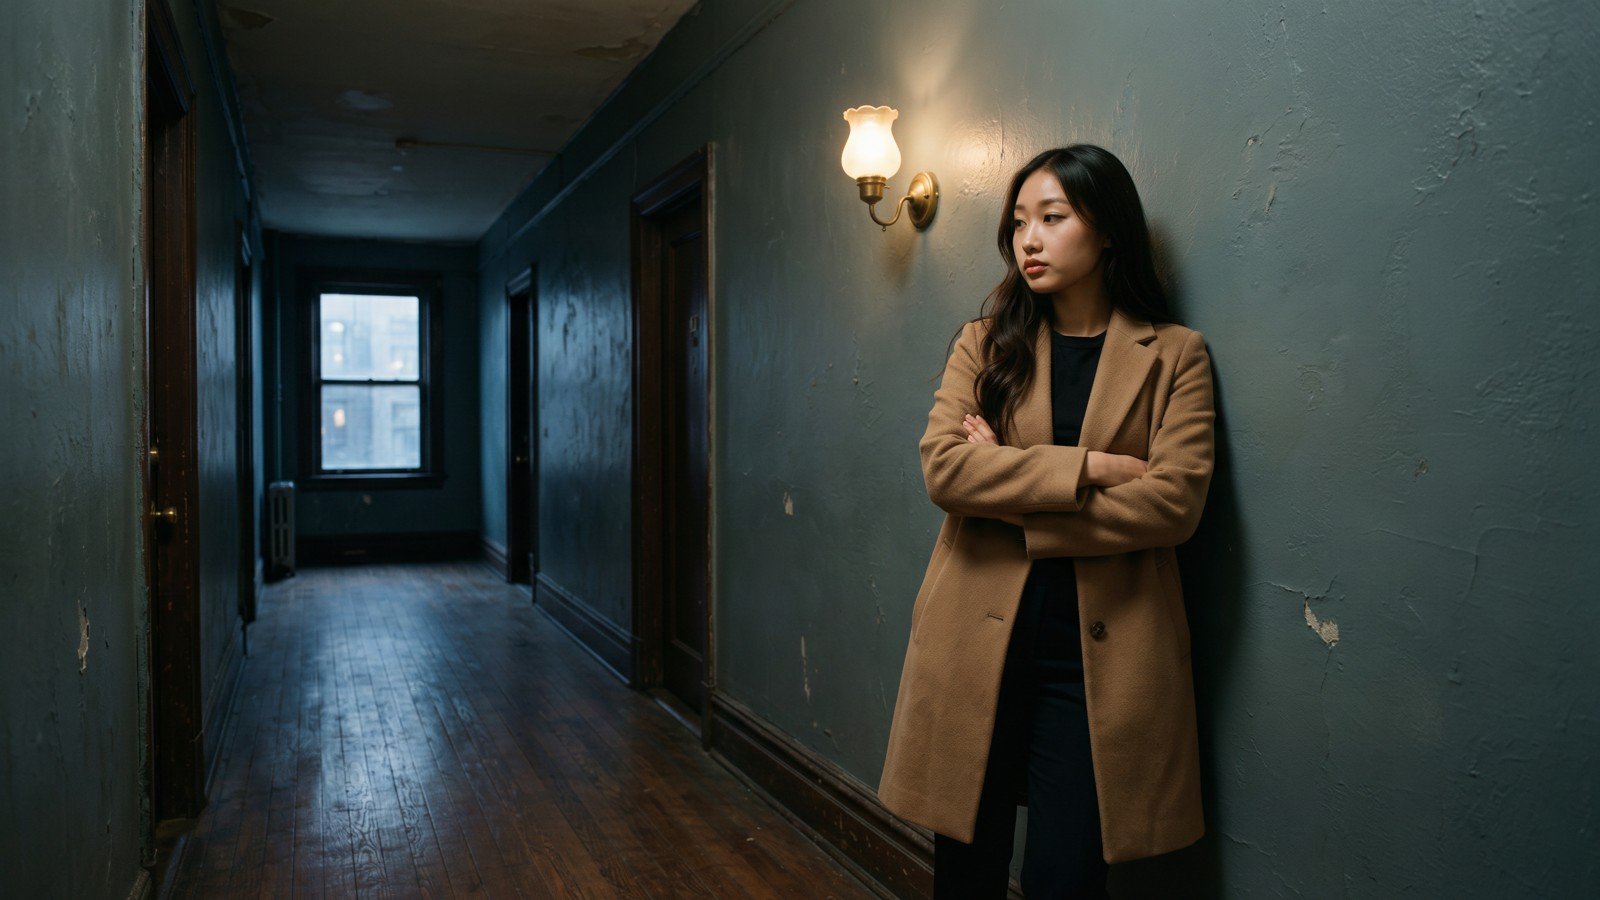
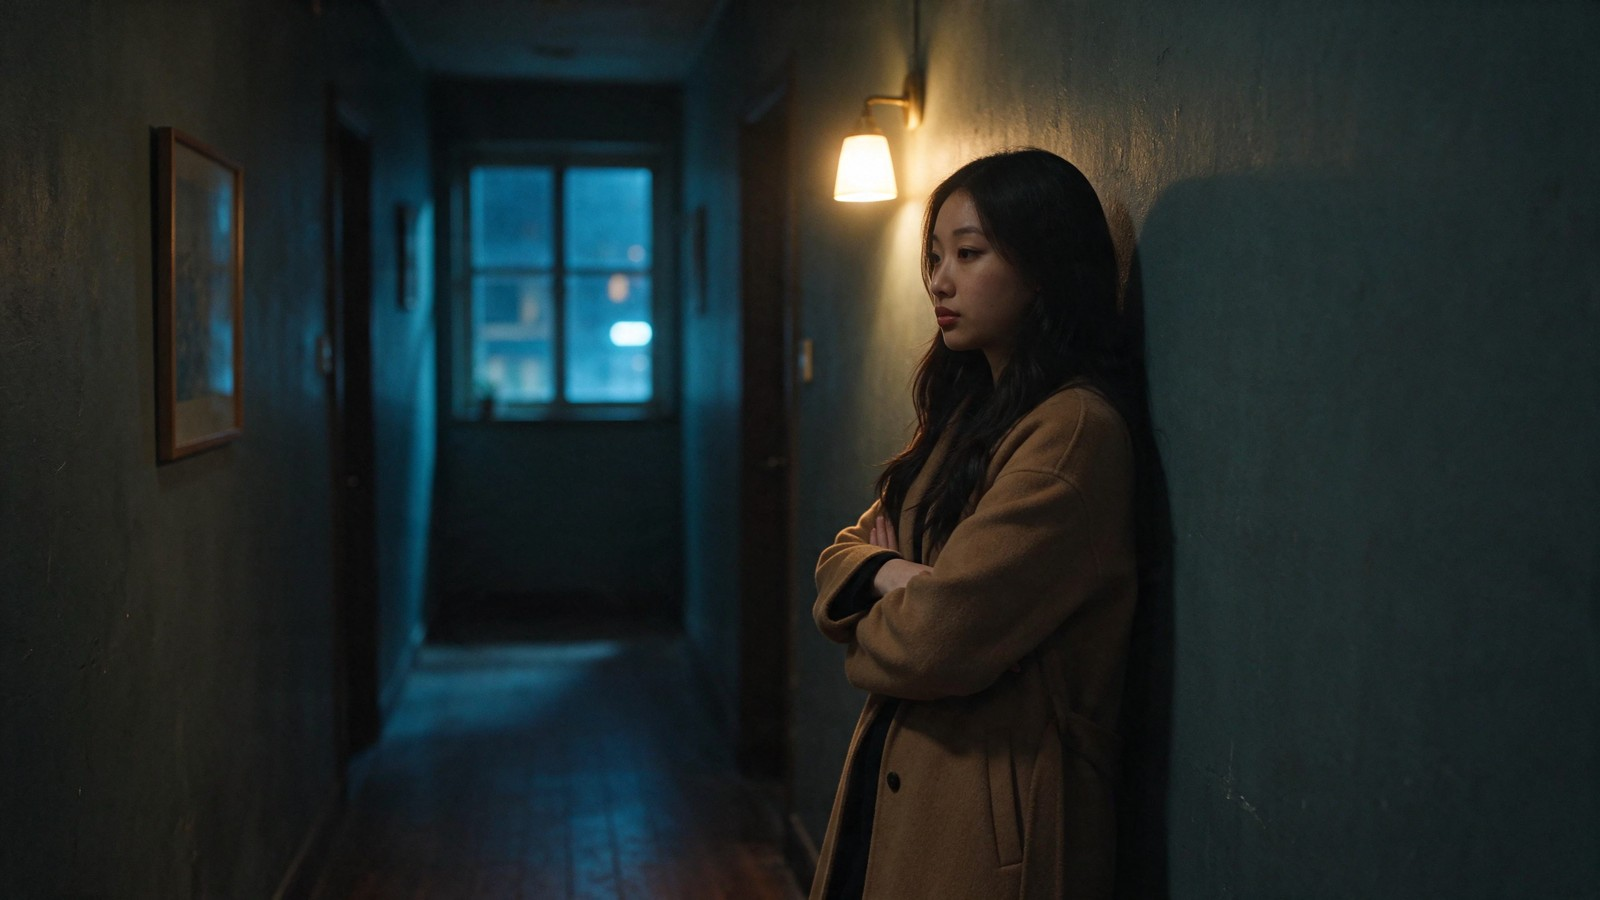
영상 색감 견본 다섯째 판 — 엔진만 Seedream 5.5(11-19 유호님 「응, 시험해」 · 「시드림 s2 시네마 1,2 둘다 좋다. 굿굿」 · 「전체적으로 확실히 시드림이 좋네」): 넷째 판 지시문을 그대로 두고 드리미나 unmet23 CLI의 Seedream 5.5(2K, 유나 참고 넷)로 맑음 · 시네마 · 팝 · 아련 열 장을 구웠다(90크레딧). 엔진 비교 판 둘을 견본 폴더에 두고 시네마 견본을 Seedream 판으로 바꿨다. 만족 사례 S59, 결정 행(색감 견본은 Seedream으로 잇고 광고 그림 엔진 규칙은 

diff --git a/docs/마케팅/제작양식/만족사례_장부.md b/docs/마케팅/제작양식/만족사례_장부.md
@@ -44,7 +44,7 @@
 | 가상 모델 · 아이돌 후보 얼굴 | S41 걸그룹 F08 · F09 · F10(멤버 색 파스텔 배경 + 아래 가장자리 흐린 꽃 · 하이키 앞빛 + 금빛 역광 · 기획사 메이크업 · 진짜 피부 결, 참조 없이 글로만) |
 | 장면을 한 번에 만들기 | S08 다각도, S14 멀티샷, S09 인트로 한 컷, S15 이미지 콘티에서 장면 다섯 |
 | 마스코트 | S15·S17의 승인 외형·연출을 참고한다. 새 그림은 위 공통 원칙 4의 10-14 장면 통합 생성 방식을 따른다. S17의 오려 붙이기는 당시 구현 기록이다. [S53](#lab-country-greeting-20261112) LAB 나라 인사 카드(그 나라 상징 하나와 몽글의 장난 + 펠트 글자 세 줄을 장면과 한 장으로) |
-| 톤·색·질감 | 기본은 후보정 없이 처음 지시문으로(공통 원칙 3, 10-24). S01 실사 질감, S06 실촬영 톤 맞춤, S13 색 복원, S14 인트로 질감·톤, [S58](#look-samples-pop-20261119) 색감 견본 팝(옷 · 벽 원색 둘 — 색감은 세트 색까지), S25 PULSE 광고 색감 「필름아침」(후반 한 번, 제품 접사는 색조만 — 유호님이 바라실 때만) |
+| 톤·색·질감 | 기본은 후보정 없이 처음 지시문으로(공통 원칙 3, 10-24). S01 실사 질감, S06 실촬영 톤 맞춤, S13 색 복원, S14 인트로 질감·톤, [S58](#look-samples-pop-20261119) 색감 견본 팝(옷 · 벽 원색 둘 — 색감은 세트 색까지), [S59](#look-samples-seedream-cinema-20261119) 색감 견본 시네마 Seedream 5.5(같은 지시문, 엔진만 바꿈), S25 PULSE 광고 색감 「필름아침」(후반 한 번, 제품 접사는 색조만 — 유호님이 바라실 때만) |
 | 전환·편집 | S04 드라이브 전환, S10 2:46 연결, S11 퀵컷, S18 느린 데 덜어 내기(컷 경계·프레임 차), S45 SNS 29초 판(콜드 오픈 · 층마다 한 컷 · 말 자리는 소리 곡선), S47 B급 공모 쇼츠 첫 15초(영상통화 두 칸 → 꽉 찬 얼굴 · 전화 목소리 · 영수증 「칙」 · 자막 규칙 · 배경 인물도 초 단위로 움직이게), S48 해커 대사를 썩소 클로즈업으로(대사는 가리키는 것 · 말하는 얼굴의 감정 위에 · VOICE 줄로 「낮고 느리게 음미하듯 비웃는」 목소리), S52 SNS 재연 32.7초(제미나이 앱 동영상 아홉 컷 · 말은 듣는 사람 위에도 · 진동은 소리로만) |
 | 인물 반응 · 연기 | S32 공포 반응(몸짓 · 눈 · 입을 그림 · 영상 지시문에 먼저 — 「매진 임박」 v4), S39 상대역 한 테이크(듣고 웃고 대답 — 입 · 표정 + 우리 녹음 얹기, 드라마 말하기), [S44](#omitok-wait-voice-20261106) 광고 모델이 한국어 대사를 말하는 친구 폰 판(시댄스 첫 프레임 길 · 시댄스가 낸 목소리 그대로, 대사는 두 음절 이상 또렷한 말로), [S55](#pulse-en-five-directions-20261118) 같은 대사를 상황 주문 다섯 개로 바꿔 하는 오디션 테이프(카본 바탕 장 편집 꼴 시작 그림 · 시댄스 2.5 480p · 슬레이트를 1초 들고 있다가 딱) |
 | 앱 속 인물의 짧은 한마디 · 입 맞춤 | [S54](#today-taeo-bubble-voice-20261116) 드라마 「오늘」 태오 — 듣는 고리 첫 장 + 같은 구도 닻 + 그 배역 녹음(목소리 결만)으로 시댄스 2.5 flash 480p 8초, 한 판 64크레딧 |
@@ -853,6 +853,18 @@
 - **방법:** S57과 같다(본질 한 문장 · 강조 순위 · 움직이는 참고 작품 · 순간마다 소리). 바탕은 지금 앱의 그림과 부품 값을 옮겨 다시 짓고, 입구가 더하는 부품만 움직였다. 누른 뒤에는 미리 불러 둔 「오늘」 화면으로 얼굴을 넘겨 끊김 없이 이었다. GPT 맹검을 세 번 돌려 메시지를 「다시 말할 말 그대로」로, 누를 자리를 단추로, 흰 주 단추를 한 화면에 하나로 고쳤다.
 - **깨졌던 경우:** 첫 맹검에서 「식당에서 만난 장면, 오늘 한 번 더 해요」는 앞선 장면을 안다는 전제로 읽혔고, 「눌러서 보기」는 대사와 같은 흰 글씨에 묻혔다.
 - **출처:** 이 대화(11-19, 드라마 「오늘」 세션).
+
+<a id="look-samples-seedream-cinema-20261119"></a>
+### S59 · 11-19 · 영상 색감 견본 「시네마」 Seedream 5.5 — 밤 복도 벽등 하나, 같은 지시문을 엔진만 바꿔 구움 (그림 · 색감 · 엔진, 부분)
+
+- **말씀:** 같은 지시문으로 Gemini 카본과 Seedream 5.5를 견준 판을 보시고 「시드림 s2 시네마 1,2 둘다 좋다. 굿굿」, 「전체적으로 확실히 시드림이 좋네」.
+- **좋았던 범위:** 시네마 두 장(S2시네마_1 · _2)의 사진 결이다. 벽등 하나의 빛이 실제로 떨어지고, 복도 끝 창의 푸른빛과 깊은 그늘이 영화 스틸처럼 섰다. 「시드림이 좋네」는 같은 판의 맑음 · 팝까지 본 엔진 비교 말씀이다. 광고 그림 엔진 규칙을 바꾸라는 말씀은 아니다.
+- **방법:** 넷째 판 Gemini K19와 같은 지시문(항목별 줄 — 필름 · 카메라 첫 문장, SCENE · MOMENT · WARDROBE AND PALETTE · CAMERA 숫자 · LIGHT 광원 · 방향 · 그림자, GRADE 뼈대, TEXTURE, WHO, NOT)을 그대로 썼다. 「Images 1 to 4」만 Seedream 참고 표기로 바꿨다. 유나 캐스팅북 사진 넷을 참고로 넣었다. 드리미나 unmet23 CLI `node create image --model seedream_5.5 --mode i2i --ratio 16:9 --resolution 2K --count 2`, 후보정 없음. 조사 근거는 [색감 인기 자료 조사](영상양식/색감_인기자료조사_20261119.md).
+- **지시문:** git 밖 `D:/synk-vendor/look-samples-20261119/지시문/K19.txt` · 굽기 `굽기_seedream.py`.
+- **비용:** 2K 한 장 9크레딧(unmet23, 한 달 뒤 사라지는 크레딧).
+- **결과물:** [색감 견본](영상양식/색감견본_유나_20261119/README.md).
+- **깨졌던 경우:** 같은 지시문의 Gemini 카본 판(K19)은 맹검이 「밀랍처럼 매끈한 피부」로 짚었고, 유호님은 넷째 판에서 아련 말고는 부족하다고 하셨다. 그 앞 네 판은 한 방에 색감 줄만 바꾸거나 옷 · 벽 색만 바꿔 「뭔가 획기적인 다른 방법이 필요할것같은데」였다.
+- **출처:** 이 대화(11-19, 영상 색감 세션).
 
 ## 확인할 것
 

diff --git a/docs/_ops/트랙.md b/docs/_ops/트랙.md
@@ -21,7 +21,7 @@
 
 - **광고 자막 자리 찾기(11-19).** [자리 찾기 도구](../마케팅/PULSE_포트폴리오_제작준비_20261012/video/자막시안_20261103/자리찾기.py)는 큰 검색의 글자 겹침과 테두리 대비를 Rust로 집계한다. ‘매진 임박’과 반려견 광고의 자막 5개에서 상위 후보 25개와 미리보기가 기존판과 일치했다. 남은 일: 없음
 
-- **영상 색감 넷 · 최상급 대조 · 브랜드 회상 셋(11-18, Claude · 유호님 「색감도 니 제안대로 해보자」 · 「최상급과 겨룰만한지 검수도 추가하자」 · 「고정 질문 셋으로 넣자」):** 색감 정본은 [색감 이름 표](../마케팅/제작양식/영상양식/색감이름.json)(아련 · 맑음 · 시네마 · 팝)이고, 컷표 「색감」 · 이미지 GRADE 줄 · 영상 LOOK 줄을 `tools/컷연속성검사.py` T22가, 「최상급」을 T23이 본다. 눈가림 순위는 `tools/최상급대조.py`, 회상 셋은 `tools/낯선이시험.js` 12 · 13번과 울트라 마감 관문 이야기 검수자가 맡는다([결정](결정.md) 11-18). 같은 날 유호님 「넣어줘」로 희노애락 굴곡도 넣었다 — 컷표 「감정흐름」(띠마다 감정 · 갈래 · 세기)을 T24가 보고, 낯선이시험 14번과 마감 관문이 보는 사람의 기분 흐름을 묻는다. 11-19 유호님 「견본 만들어줘」로 유나 견본 넷을 구웠다([색감 견본](../마케팅/제작양식/영상양식/색감견본_유나_20261119/README.md)). 둘째 판에 유호님 「팝은 좋아보이는데 나머지는 좀 퀄리티가 떨어져보이네」 — 팝만 옷 · 벽 색을 정했었다. 그래서 색감마다 「세트」(옷 · 벽 색 두세 개)를 정본에 더하고, 셋을 세트까지 짜서 다시 구워 맹검으로 골랐다(만족 사례 S58 · 슬롭 점검표 60). 셋째 판에 유호님 「아련,팝은 괜찮은데 아직 뭔가 느낌이 좀 부족하네」 · 「인터넷에 제대로 조사해서 … 적용」으로 인기 자료를 조사하고([조사](../마케팅/제작양식/영상양식/색감_인기자료조사_20261119.md)), 색감마다 장면을 새로 지은 넷째 판 여덟 장을 구웠다. 남은 일: 넷째 판에 대한 유호님 판정(고르심 장부 `색감견본4-유나-20261119`), 판정이 나면 지시문 틀 · 컷표 「세트」 칸과 T22 검사에 조사 방식을 넣을지 정하는 일, 견본 · 첫 세 편 값으로 색감 문턱을 다시 정하는 일. 분야별 기준 광고 파일은 아직 없다 — 첫 편 기획에서 고르고, 받기 전에 파일 이름 · 출처 · 크기를 여쭙는다.
+- **영상 색감 넷 · 최상급 대조 · 브랜드 회상 셋(11-18, Claude · 유호님 「색감도 니 제안대로 해보자」 · 「최상급과 겨룰만한지 검수도 추가하자」 · 「고정 질문 셋으로 넣자」):** 색감 정본은 [색감 이름 표](../마케팅/제작양식/영상양식/색감이름.json)(아련 · 맑음 · 시네마 · 팝)이고, 컷표 「색감」 · 이미지 GRADE 줄 · 영상 LOOK 줄을 `tools/컷연속성검사.py` T22가, 「최상급」을 T23이 본다. 눈가림 순위는 `tools/최상급대조.py`, 회상 셋은 `tools/낯선이시험.js` 12 · 13번과 울트라 마감 관문 이야기 검수자가 맡는다([결정](결정.md) 11-18). 같은 날 유호님 「넣어줘」로 희노애락 굴곡도 넣었다 — 컷표 「감정흐름」(띠마다 감정 · 갈래 · 세기)을 T24가 보고, 낯선이시험 14번과 마감 관문이 보는 사람의 기분 흐름을 묻는다. 11-19 유호님 「견본 만들어줘」로 유나 견본 넷을 구웠다([색감 견본](../마케팅/제작양식/영상양식/색감견본_유나_20261119/README.md)). 둘째 판에 유호님 「팝은 좋아보이는데 나머지는 좀 퀄리티가 떨어져보이네」 — 팝만 옷 · 벽 색을 정했었다. 그래서 색감마다 「세트」(옷 · 벽 색 두세 개)를 정본에 더하고, 셋을 세트까지 짜서 다시 구워 맹검으로 골랐다(만족 사례 S58 · 슬롭 점검표 60). 셋째 판에 유호님 「아련,팝은 괜찮은데 아직 뭔가 느낌이 좀 부족하네」 · 「인터넷에 제대로 조사해서 … 적용」으로 인기 자료를 조사하고([조사](../마케팅/제작양식/영상양식/색감_인기자료조사_20261119.md)), 색감마다 장면을 새로 지은 넷째 판 여덟 장을 구웠다. 넷째 판에 「아직 아련 빼고 부족해」라 같은 지시문을 Seedream 5.5로 구웠고 「시드림 s2 시네마 1,2 둘다 좋다」 · 「전체적으로 확실히 시드림이 좋네」(만족 사례 S59 · 결정 11-19). 남은 일: Seedream 아련 판정, 광고 · 공모전 그림 엔진을 Seedream으로 바꿀지 여쭙기, 맑음 · 팝 시안 사진(Unsplash 후보 조사 끝, 받기 전 허락) 시험, 지시문 틀 · 컷표 「세트」 칸과 T22 검사에 조사 방식을 넣는 일, 색감 문턱을 다시 정하는 일. 분야별 기준 광고 파일은 아직 없다 — 첫 편 기획에서 고르고, 받기 전에 파일 이름 · 출처 · 크기를 여쭙는다.
 
 
 - **영상 첫 컷 판정을 맥락 없는 다른 눈에게(11-18, Claude · 유호님 「응, 고쳐」):** 첫 컷 판정을 만든 세션 대신 `tools/첫컷검사.py`가 부른 GPT 6.2 눈이 프레임과 주문을 견줘 내린다. 실측과 코드 검수 결과는 [기록](qa/첫컷_다른눈_20261118/README.md)에 있다(GPT 13건 · 재검수 9건, 남은 P1 둘은 답 파일까지 꾸민 기록과 GPT 실행기의 파일 읽기로 이 관문 범위 밖에 두었다). 남은 일: ① 다음 AI 영상 세 편에서 첫 컷 한 번에 걸린 시간, 반박으로 뒤집힌 「다시」 수, 유호님이 같은 지적을 다시 하신 횟수를 잰다. ② 세 번째 눈(카본 · 그록), GPT 실행기의 도구와 파일 읽기 제한, 낯선이시험의 주문을 굽기 전에 묶어 두는 일은 그 숫자를 보고 정한다.

diff --git a/docs/_ops/결정.md b/docs/_ops/결정.md
@@ -7,6 +7,7 @@
 <!-- 결정표 시작 · tools/결정.js 가 이 구간만 읽고 쓴다 -->
 | 날짜 | 성격 | 결정 | 근거 |
 |---|---|---|---|
+| 2026-11-19 | 확정 | [영상 색감 견본 · 엔진 · 유호님 11-19] 색감 견본을 같은 지시문으로 Gemini 카본과 Seedream 5.5(드리미나 unmet23 CLI · 유나 얼굴 참고 넷 · 2K · 장당 9크레딧)로 견주자 유호님 「시드림 s2 시네마 1,2 둘다 좋다. 굿굿」 · 「전체적으로 확실히 시드림이 좋네」. 색감 견본은 Seedream 판으로 잇는다. 광고 · 공모전 그림 엔진 규칙(Gemini 카본, 영상 한 장 원칙 3)을 바꿀지는 따로 여쭌다. | 유호님 11-19 · [색감 견본](../마케팅/제작양식/영상양식/색감견본_유나_20261119/README.md) · 만족 사례 S59 |
 | 2026-11-19 | 확정 | [검수 도구 · 검수 경로 걷기 · 유호님 예외] tools/lib/검수증명.mjs 안전경로는 뿌리에서 아래로 걸으며 칸마다 재분석 속성을 그 칸을 열기 전에 본다(부모 폴더 목록, 목록에 없으면 fsutil). 정션 · 심볼릭 링크 · 깨진 정션 · 볼륨 마운트 지점을 따라가기 전에 막는다. 같은 프로세스에서 기억한 8.3 별칭 폴더가 마운트 지점으로 바뀌는 경우와 fsutil이 답하지 못한 칸의 lstat은 남는 틈으로 둔다(관리자만 만드는 로컬 볼륨 마운트 지점, 옛 판은 마운트 지점을 전혀 막지 않음). | 유호님 11-19 「예외로 올려」. 검수 사슬 review-tool-safe-path-20261119 ~ -d(GPT 넷째 회차에 P1 둘이 같은 자리에 남아 설계 검토 3의 물음 3-5대로 여쭘), 설계 검토 2 · 3(.tmp/pulse-app-media-20261119/설계검토2_Fable.md · 설계검토3_Fable.md). P2 셋은 후속. |
 | 2026-11-19 | 확정 | [SHIFT 강사 소개서 · 유호님 11-19] 출강은 2027년 2월부터 받는다. 「수업 뒤 2주까지 질문을 메일로 받는다」는 약속은 둔다. 의왕 공모전 본선 결과(11-27)가 나오면 이력 문구는 Claude가 추천하는 대로 쓴다. 강의용 정면 사진을 따로 쓸지는 유호님이 더 생각하신다. | 유호님 11-19 「강의용 정면사진을 따로 쓸지는 좀 생각해보자」, 「웅 둘게」, 「출강할수있는 시기는 27년 2월부터」, 「의왕 공모전 결과 나오면 니가 알아서 추천해주는데로 할게」 · [소개서](../마케팅/SHIFT_강사소개서_20261118/README.md) |
 | 2026-11-19 | 확정 | [계정 원장 · 링크드인 · 유호님 지시 반영] yuhobuilds-linkedin(/in/yuhobuilds)을 원장에서 운영(operating)으로 되돌린다. 11-18부터 yuhobuilds 매일 줄이 이 프로필에 올라가는데 원장은 9월의 「운영 제외」로 남아 서버 채널과 게시물별 수집이 없었다. 관리 계정은 71에서 72가 된다. 원장은 회사 판으로 나가고, 그 뒤 채널을 원장에서 등록한다. | 유호님 11-17 「yuhobuilds를 … 링크드인 2개 계정 … 그 중 하나로 옮기면 되지않아?」 · sns-계정.json targetStatus operating-yuhobuilds-daily-line-from-2026-11-18 · 11-19 조율 세션 지시 · ego Profile 18 주인 화면 확인 |

diff --git a/docs/마케팅/제작양식/영상양식/색감견본_유나_20261119/README.md b/docs/마케팅/제작양식/영상양식/색감견본_유나_20261119/README.md
@@ -2,7 +2,17 @@
 
 > 2026-11-19. 편 기획에서 [색감 이름 표](../색감이름.json)의 넷 가운데 하나를 고를 때, 손님 방향 제안에서 「이 색감으로 갑니다」를 그림으로 보일 때 꺼내 쓴다 — 유호님 11-19 「견본 만들어줘」.
 
-지금 판은 넷째 판이다. PULSE 모델 유나(F01)의 대표 사진 넷만 참고로 넣고, 색감마다 그 색감이 쓰이는 장면을 새로 지었다. 지시문은 [인기 자료 조사](../색감_인기자료조사_20261119.md)대로 항목별로 썼다. 첫 문장에 필름 · 카메라, 이어서 장면 · 순간 · 옷과 색 · 카메라 숫자 · 빛(광원 · 방향 · 그림자) · GRADE(색감 뼈대 그대로) · 피부결 순서다. Gemini 웹(카본 · 사고 수준 높음), 후보정 없음.
+## 다섯째 판 — 같은 지시문, 엔진만 Seedream 5.5 (11-19)
+
+넷째 판에 유호님 「아직 아련 빼고 부족해 … 뭔가 획기적인 다른 방법이 필요할것같은데」. 넷째 판 지시문을 그대로 두고 엔진만 Seedream 5.5로 바꿨다. 드리미나 unmet23 CLI(`--model seedream_5.5 --mode i2i --resolution 2K`), 유나 대표 사진 넷을 참고로 넣었고 장당 9크레딧이다(열 장 90크레딧). 굽기 도구는 git 밖 `synk-vendor/look-samples-20261119/굽기_seedream.py`다.
+
+- 맑음 · 시네마 · 팝: [엔진비교_맑음시네마팝.jpg](엔진비교_맑음시네마팝.jpg) — 줄마다 왼쪽이 Gemini, 오른쪽 둘이 Seedream. 유호님 「시드림 s2 시네마 1,2 둘다 좋다. 굿굿」, 「전체적으로 확실히 시드림이 좋네」(만족 사례 S59 · 결정 11-19). 그래서 시네마 견본(3_시네마.jpg)을 Seedream 판으로 바꿨다.
+- 아련: [엔진비교_아련.jpg](엔진비교_아련.jpg) — 판정은 아직 없다. Claude 예측은 고르심 장부 `색감견본6-아련엔진-유나-20261119`(창가 1).
+- 광고 · 공모전 그림 엔진은 아직 Gemini 카본이다(영상 한 장 원칙 3). 바꿀지는 따로 여쭌다.
+
+## 넷째 판
+
+넷째 판은 아래와 같다. PULSE 모델 유나(F01)의 대표 사진 넷만 참고로 넣고, 색감마다 그 색감이 쓰이는 장면을 새로 지었다. 지시문은 [인기 자료 조사](../색감_인기자료조사_20261119.md)대로 항목별로 썼다. 첫 문장에 필름 · 카메라, 이어서 장면 · 순간 · 옷과 색 · 카메라 숫자 · 빛(광원 · 방향 · 그림자) · GRADE(색감 뼈대 그대로) · 피부결 순서다. Gemini 웹(카본 · 사고 수준 높음), 후보정 없음.
 
 ![넷째 판 — 색감마다 맹검이 고른 한 장](나란히.jpg)
 
